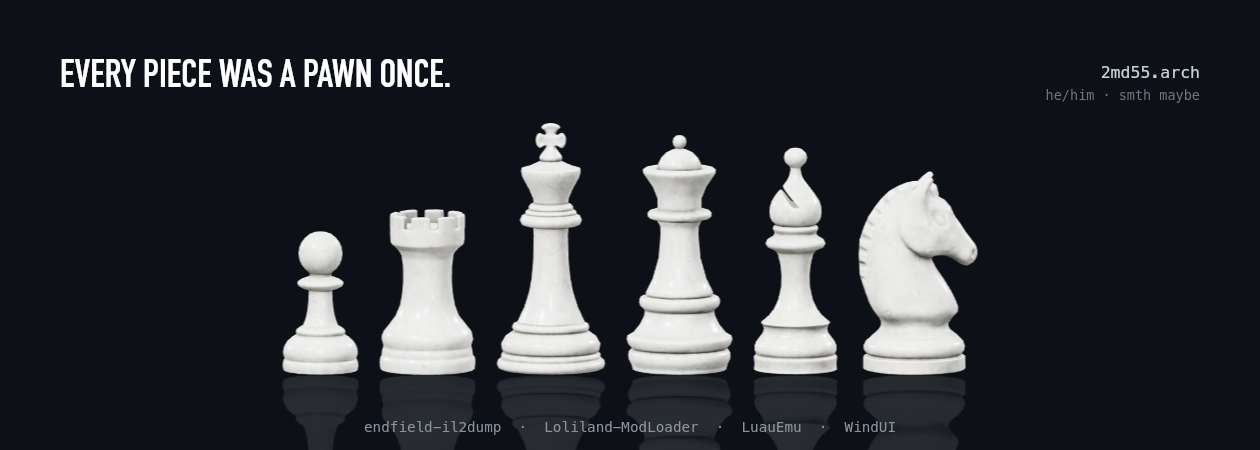
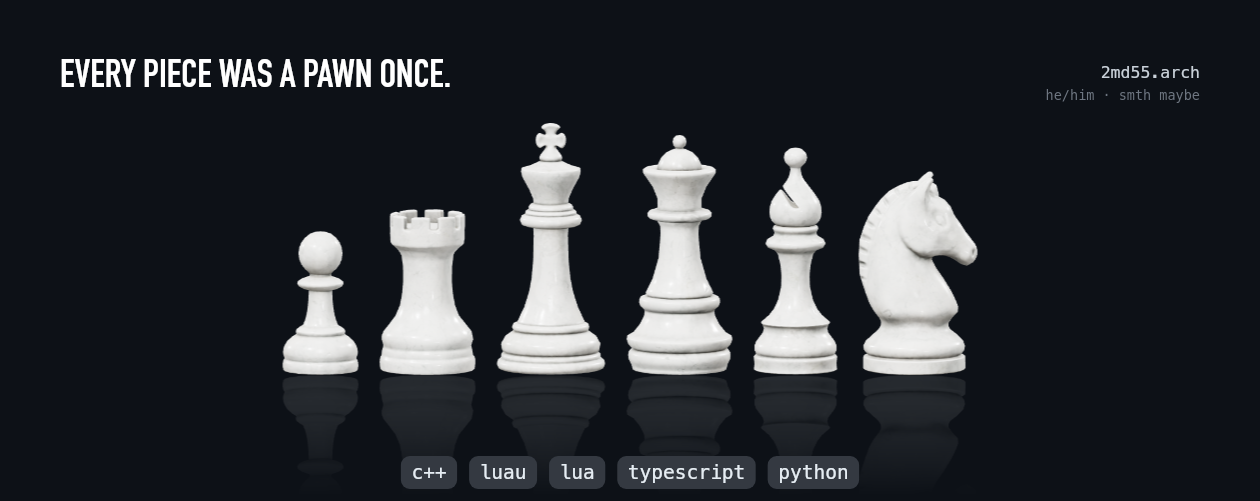
Header: fade the bottom into the page and bake stack chips into the GIF
GitHub strips styles from README HTML, so the c++/luau/lua/typescript/python
chips are now drawn inside the header itself, on top of a fade into the
dark page background. Removes the duplicate HTML badges and the repo list
from the final frame.

diff --git a/README.md b/README.md
@@ -2,20 +2,16 @@
   Шапка рендерится canvas'ом офлайн (GitHub не исполняет JS в README):
     npm i
     npm run build        # render/game.mjs -> assets/header.gif + assets/header-static.png
-  Спрайты фигур уже лежат в source/sprites/. Перерендерить их:
-    скачать glTF 2k «Chess Set» с polyhaven.com/a/chess_set в source/chess_set/,
+  Спрайты фигур уже лежат в source/sprites/. Перерендерить их из 3D-модели
+  (source/chess_set/, «Chess Set» с polyhaven.com/a/chess_set, CC0):
     npm run sprites      # и открыть http://localhost:5178
   Руки: source/gen/hand_{top,bottom,right}.png на зелёном фоне.
 -->
 
 <picture>
   <source media="(prefers-reduced-motion: reduce)" srcset="./assets/header-static.png">
-  <img src="./assets/header.gif" width="100%" alt="2md55.arch — every piece was a pawn once. Reverse engineering, Unity IL2CPP, Luau.">
+  <img src="./assets/header.gif" width="100%" alt="2md55.arch — every piece was a pawn once. Reverse engineering, Unity IL2CPP, Luau. Stack: C++, Luau, Lua, TypeScript, Python.">
 </picture>
-
-<p align="center">
-  <code>c++</code>&nbsp;&nbsp;<code>luau</code>&nbsp;&nbsp;<code>lua</code>&nbsp;&nbsp;<code>typescript</code>&nbsp;&nbsp;<code>python</code>
-</p>
 
 <p align="center"><sub>
   header rendered with canvas&nbsp;·&nbsp;chess set 3D model by Riley Queen (<a href="https://polyhaven.com/a/chess_set">Poly Haven</a>, CC0)
